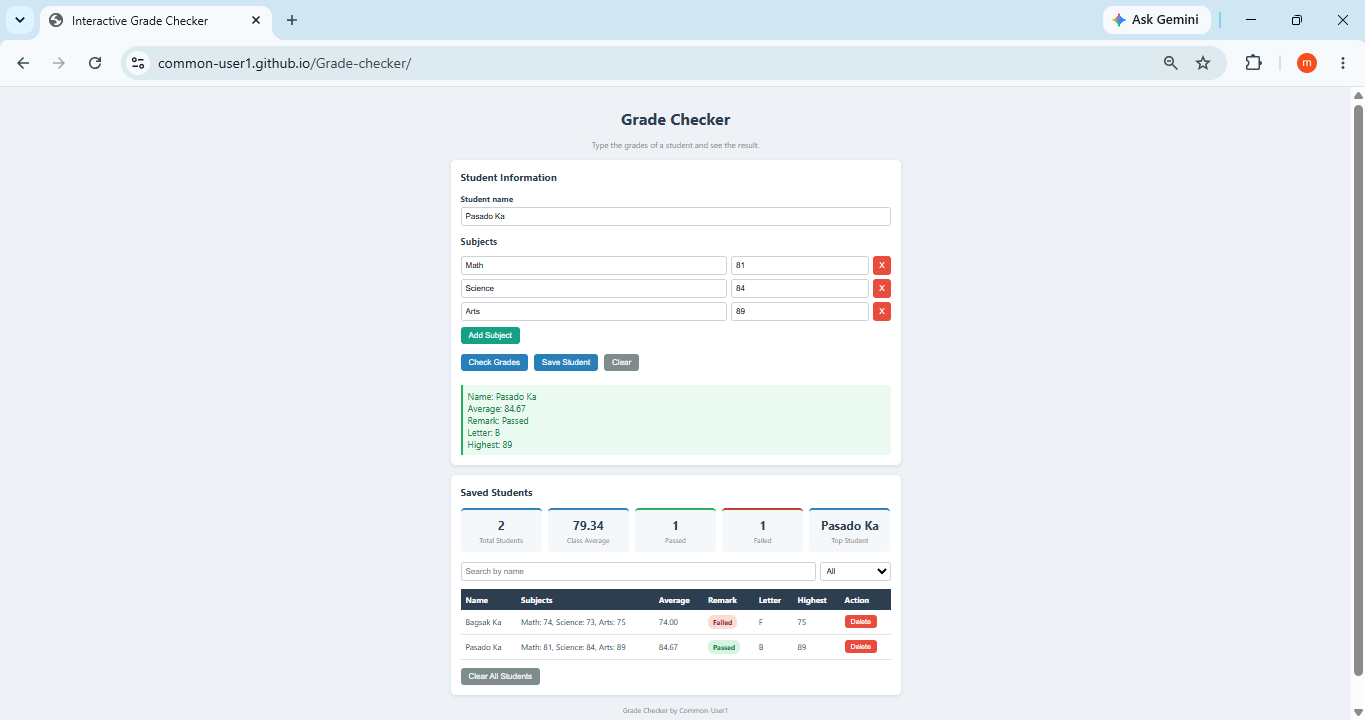
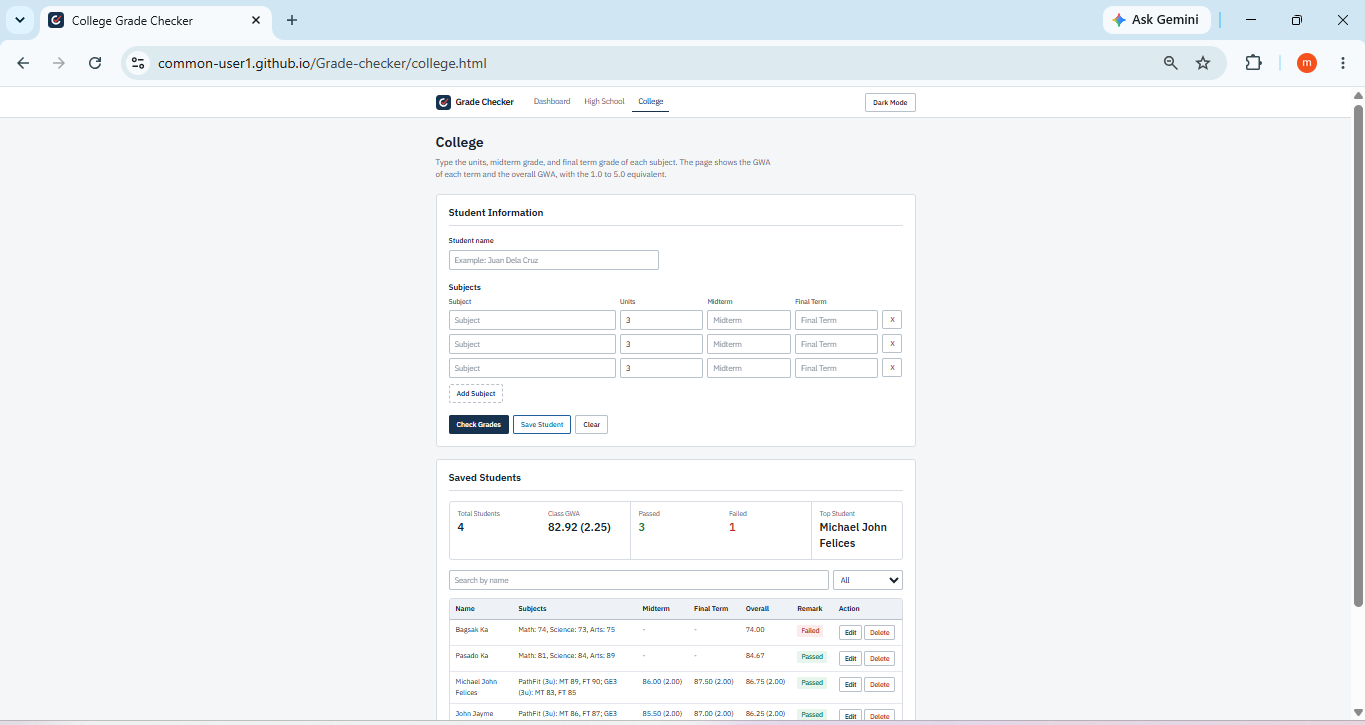
Update README and screenshot

diff --git a/README.md b/README.md
@@ -1,6 +1,6 @@
 # Grade Checker
 
-This is a web page that checks the grades of students. The user types the student name, then the subjects with their grades and units. The page shows the GWA, remark, letter grade, and highest grade. The user can also save many students in a list.
+A web page that checks the grades of high school and college students. The user picks the level on the dashboard, types the grades of each subject, and the page shows the result. Saved students stay in the browser, even after refreshing the page.
 
 ## Live Demo
 
@@ -8,32 +8,40 @@ https://common-user1.github.io/Grade-checker/
 
 ![Screenshot of the Grade Checker](screenshot.png)
 
-## How to run
+## Pages
 
-1. Download or clone this repository.
-2. Open the `index.html` file in a browser.
-3. Type the student name.
-4. Type the subject names, grades, and units. Click **Add Subject** to add more, or **X** to remove one.
-5. Click **Check Grades** to see the result.
-6. Click **Save Student** to add the student to the Saved Students table.
-7. Click **Clear** to start again.
+**High School**
+- Quarterly grades from Q1 to Q4 for each subject
+- Final grade of each subject and the general average
+- Remark and honors based on the general average
+- Filter by grade level, passed or failed, and with honors
 
-## Features
+**College**
+- Units, midterm grade, and final term grade for each subject
+- Midterm GWA, final term GWA, and overall GWA, with the 1.0 to 5.0 equivalent
+- Sort the table by name, midterm, final term, overall, or remark
 
-- Add or remove subjects, with units for each subject
-- Computes the GWA (weighted average) using the units
-- Shows the remark, letter grade, and highest grade
-- Saves a list of students, and the list stays after refreshing the page
-- Search students by name, and filter Passed or Failed
-- Summary cards: total students, class GWA, passed, failed, and top student
-- Click the table headings to sort the list
+**Both pages**
+- Add or remove subjects
+- Search students by name
+- Summary of the saved students
 - Edit or delete a saved student
 - Dark mode, and the page remembers your choice
 - Works on computers and phones
 
+## How to run
+
+1. Download or clone this repository.
+2. Open the `index.html` file in a browser.
+3. Choose High School or College.
+
 ## Files
 
-- `index.html` - the page
-- `style.css` - the colors and layout
+- `index.html` - the dashboard
+- `highschool.html` and `highschool.js` - the High School page
+- `college.html` and `college.js` - the College page
 - `grade.js` - the functions that compute the grades
-- `app.js` - connects the page to the functions, and saves the students
+- `theme.js` - dark mode for all pages
+- `dashboard.js` - shows the number of saved students on the dashboard
+- `style.css` - the colors and layout
+- `logo.svg` - the logo
